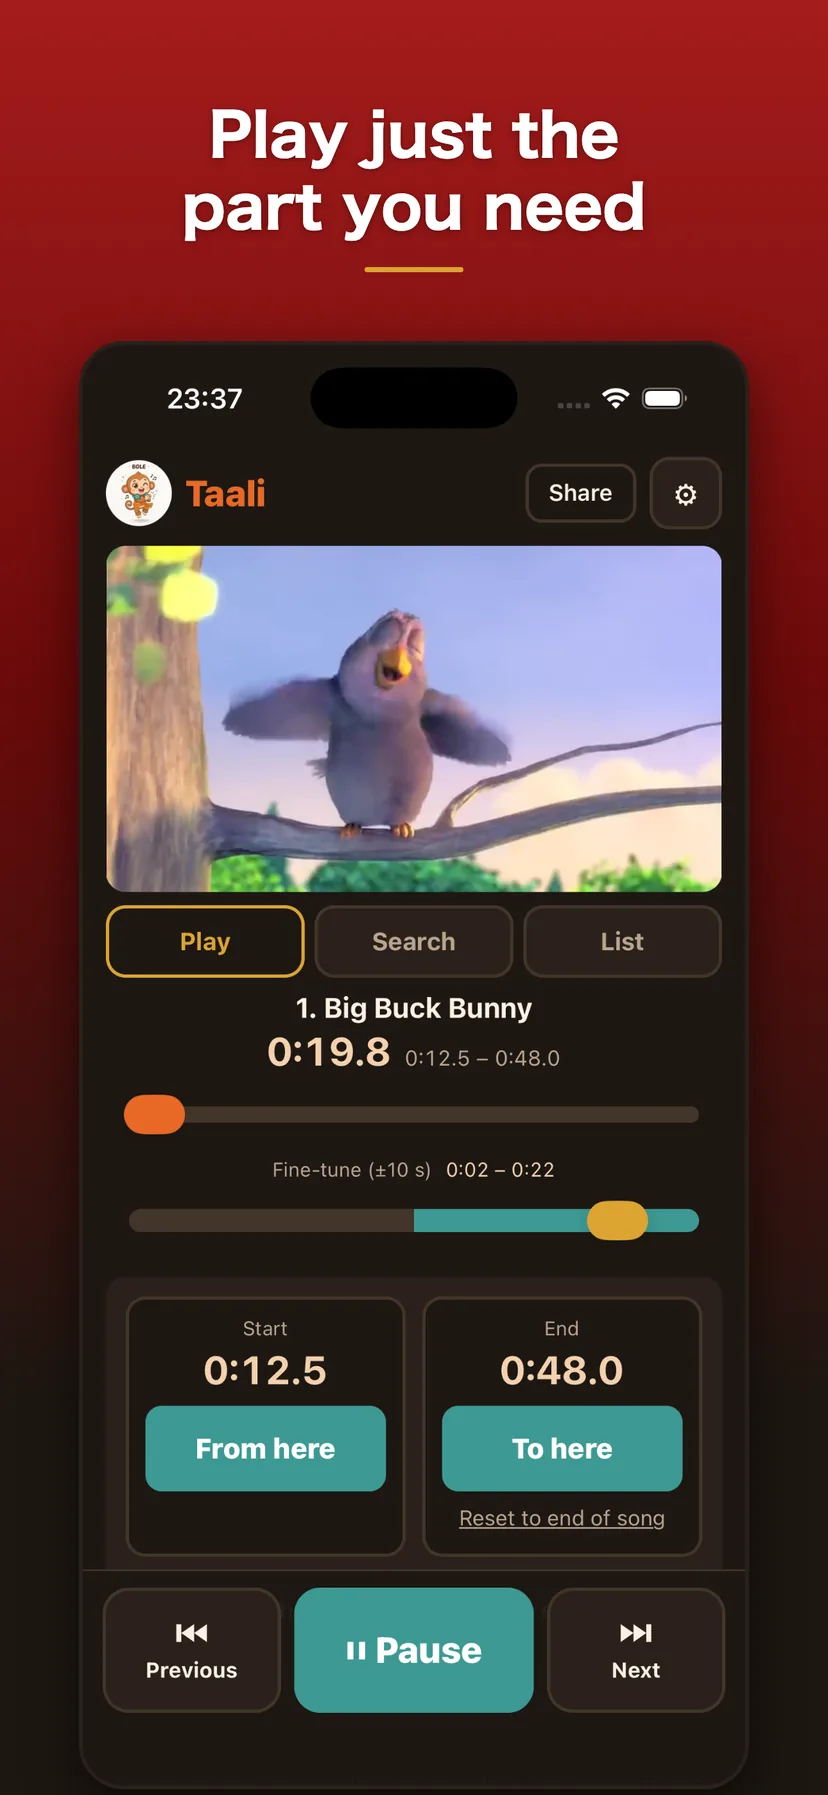
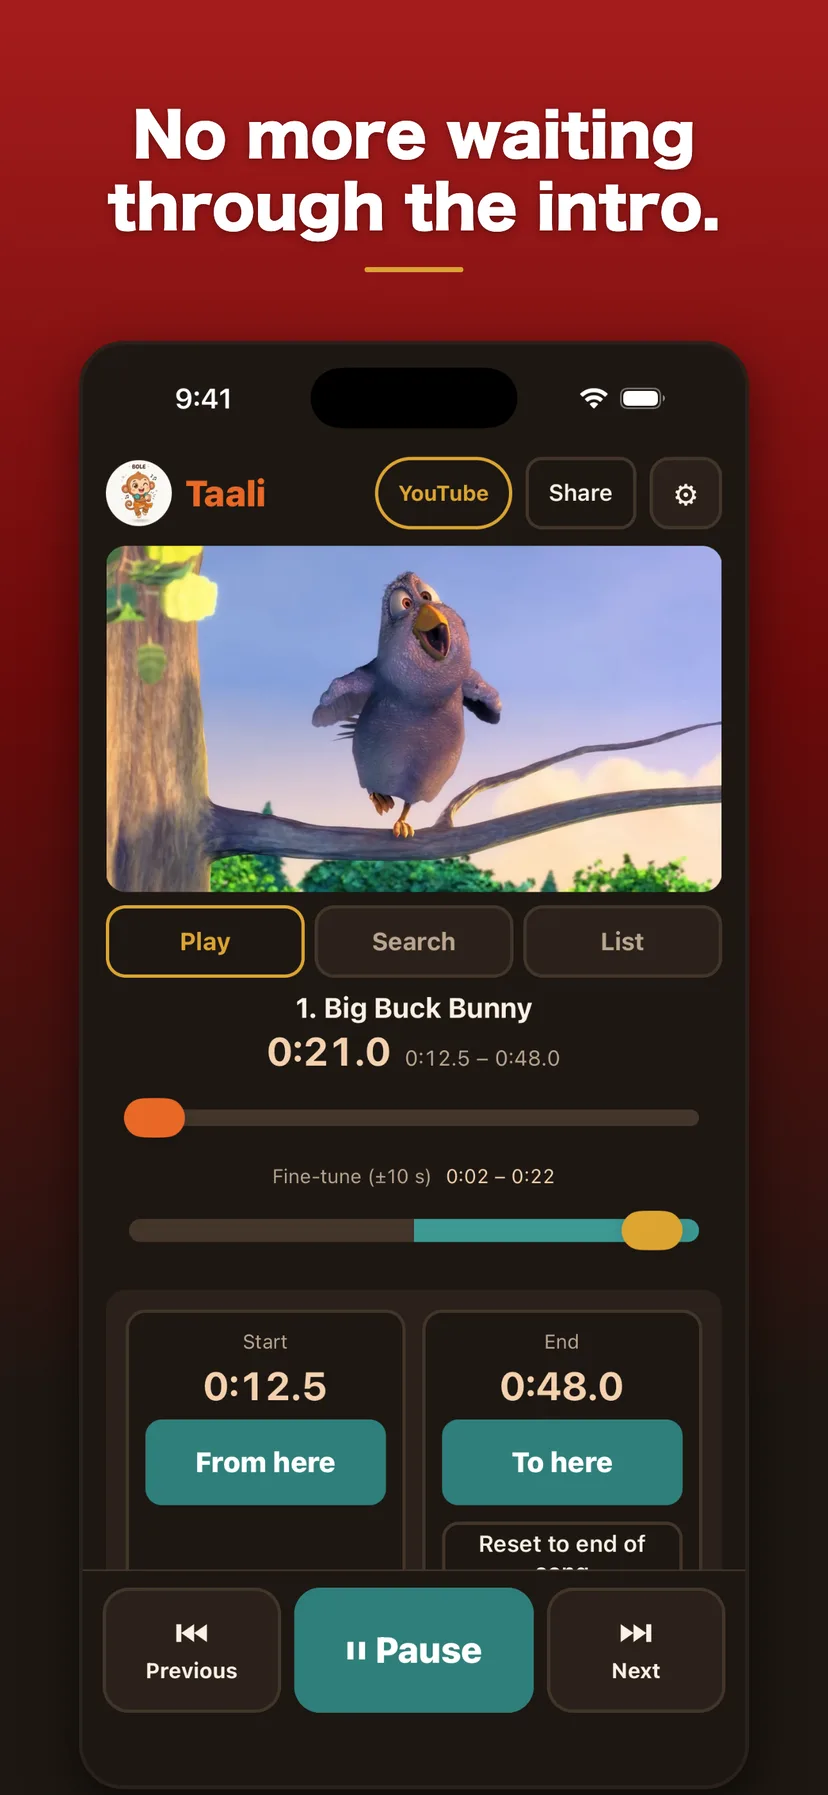
fix(taali): 画面写真を 1.1.1 の新しいものに替え、仮想メドレー・音程の言い方を直す
- ja/en の画面写真を Taali PR #131 の 4 枚に替える（vi は据え置き）
- 「仮想メドレー」→「メドレー」（ja/en/vi、一覧ページ含む）
- 実機で未確認の「音程を変えずに」を外す（紹介ページ・サポート）
- 機能の見出しが「機／能。」で折り返されないようにする

diff --git a/apps/taali/index.html b/apps/taali/index.html
@@ -6,7 +6,7 @@
   <title>Taali 曲の都合より、こっちの都合。 - Life Hack Tools</title>
   <meta name="description" content="流したい所だけ、流したい順に。曲ごとに始まりと終わりを決めて、ループ・メドレー再生。前へ／次へのかんたん操作、テンポ変更に対応。ダンス・歌・楽器の練習に。YouTubeの動画（公式プレイヤーでそのまま再生、ダウンロードしない）と、スマホの音声ファイル（ファイルモード）で使えます。">
   <meta property="og:title" content="Taali 曲の都合より、こっちの都合。 - Life Hack Tools">
-  <meta property="og:description" content="流したい所だけ、流したい順に。ループ、テンポ変更、仮想メドレー。YouTubeの動画と、スマホの音声ファイルで使えます。">
+  <meta property="og:description" content="流したい所だけ、流したい順に。ループ、テンポ変更、メドレー。YouTubeの動画と、スマホの音声ファイルで使えます。">
   <meta property="og:image" content="https://lh.tools/assets/ogp/taali.png">
   <meta property="og:image:width" content="1200">
   <meta property="og:image:height" content="630">
@@ -240,7 +240,7 @@
         <div class="step-num">3</div>
         <div class="step-body">
           <h3>すぐに再生</h3>
-          <p>再生を押すと、決めた位置からすぐ始まります。数曲をつなげた仮想メドレーや、ループ再生で通せます。</p>
+          <p>再生を押すと、決めた位置からすぐ始まります。数曲をつなげたメドレーや、ループ再生で通せます。</p>
         </div>
       </div>
     </div>
@@ -248,7 +248,7 @@
 
   <div class="section fade-in">
     <div class="section-title">Features</div>
-    <h2>練習の「困った」に効く機能。</h2>
+    <h2>練習の「困った」に<span style="display:inline-block">効く機能。</span></h2>
     <div class="features">
       <div class="feature-card">
         <span class="feature-icon"><svg xmlns="http://www.w3.org/2000/svg" viewBox="0 0 24 24" fill="none" stroke="currentColor" stroke-width="2" stroke-linecap="round" stroke-linejoin="round" aria-hidden="true"><path d="m3 17 2 2 4-4"/><path d="m3 7 2 2 4-4"/><path d="M13 6h8"/><path d="M13 12h8"/><path d="M13 18h8"/></svg></span>
@@ -257,7 +257,7 @@
       </div>
       <div class="feature-card">
         <span class="feature-icon"><svg xmlns="http://www.w3.org/2000/svg" viewBox="0 0 24 24" fill="none" stroke="currentColor" stroke-width="2" stroke-linecap="round" stroke-linejoin="round" aria-hidden="true"><path d="m17 2 4 4-4 4"/><path d="M3 11v-1a4 4 0 0 1 4-4h14"/><path d="m7 22-4-4 4-4"/><path d="M21 13v1a4 4 0 0 1-4 4H3"/></svg></span>
-        <h3>仮想メドレー</h3>
+        <h3>メドレー</h3>
         <p>数曲をつないで続けて再生。順番はかんたんに入れ替え、ループは1曲／全曲から選べます。</p>
       </div>
       <div class="feature-card">
@@ -273,7 +273,7 @@
       <div class="feature-card">
         <span class="feature-icon"><svg xmlns="http://www.w3.org/2000/svg" viewBox="0 0 24 24" fill="none" stroke="currentColor" stroke-width="2" stroke-linecap="round" stroke-linejoin="round" aria-hidden="true"><path d="m12 14 4-4"/><path d="M3.34 19a10 10 0 1 1 17.32 0"/></svg></span>
         <h3>テンポ変更</h3>
-        <p>0.75x〜1.0x。音程を変えずに、ゆっくり合わせたいときに。</p>
+        <p>0.75x〜1.0x。ゆっくり合わせたいときに。</p>
       </div>
       <div class="feature-card">
         <span class="feature-icon"><svg xmlns="http://www.w3.org/2000/svg" viewBox="0 0 24 24" fill="none" stroke="currentColor" stroke-width="2" stroke-linecap="round" stroke-linejoin="round" aria-hidden="true"><circle cx="18" cy="5" r="3"/><circle cx="6" cy="12" r="3"/><circle cx="18" cy="19" r="3"/><path d="m8.59 13.51 6.83 3.98"/><path d="m15.41 6.51-6.82 3.98"/></svg></span>
@@ -293,9 +293,10 @@
     <div class="section-title">Screenshots</div>
     <h2>こんな感じ。</h2>
     <div class="screenshot-scroll">
-      <img src="/assets/taali/screenshots/ja/01-hero.webp" alt="流したい所だけを、すぐ再生" loading="lazy">
-      <img src="/assets/taali/screenshots/ja/03-editor.webp" alt="区間を拡大バーで細かく調整" loading="lazy">
-      <img src="/assets/taali/screenshots/ja/04-list.webp" alt="仮想メドレーのリスト" loading="lazy">
+      <img src="/assets/taali/screenshots/ja/01-hero.webp" alt="前奏は、もう待たない。流す所の始まりと終わりを決める画面" loading="lazy">
+      <img src="/assets/taali/screenshots/ja/02-list.webp" alt="数曲をつないで、流したい順に。曲順のリスト" loading="lazy">
+      <img src="/assets/taali/screenshots/ja/03-file.webp" alt="スマホの音声ファイルでも使える" loading="lazy">
+      <img src="/assets/taali/screenshots/ja/04-filelist.webp" alt="音声ファイルも、流したい順に。" loading="lazy">
     </div>
   </div>
 

diff --git a/en/apps/taali/index.html b/en/apps/taali/index.html
@@ -6,7 +6,7 @@
   <title>Taali: Your timing, not the song's. - Life Hack Tools</title>
   <meta name="description" content="Play just the parts you want, in the order you want. Set a start and end for each song, then loop it or play a medley, with simple previous/next controls and tempo control. For dance, singing or instrument practice. Works with YouTube videos (played as-is in the official player, never downloaded) and with audio files on your phone (File mode).">
   <meta property="og:title" content="Taali: Your timing, not the song's. - Life Hack Tools">
-  <meta property="og:description" content="Play just the parts you want, in the order you want. Loop, tempo control and virtual medley, with YouTube videos and audio files on your phone.">
+  <meta property="og:description" content="Play just the parts you want, in the order you want. Loop, tempo control and medley, with YouTube videos and audio files on your phone.">
   <meta property="og:image" content="https://lh.tools/assets/ogp/taali.png">
   <meta property="og:image:width" content="1200">
   <meta property="og:image:height" content="630">
@@ -216,7 +216,7 @@
         <div class="step-num">3</div>
         <div class="step-body">
           <h3>Play right away</h3>
-          <p>Tap Play and it starts from your chosen point. Run a virtual medley of several songs, or loop.</p>
+          <p>Tap Play and it starts from your chosen point. Play a medley of several songs, or loop.</p>
         </div>
       </div>
     </div>
@@ -233,7 +233,7 @@
       </div>
       <div class="feature-card">
         <span class="feature-icon"><svg xmlns="http://www.w3.org/2000/svg" viewBox="0 0 24 24" fill="none" stroke="currentColor" stroke-width="2" stroke-linecap="round" stroke-linejoin="round" aria-hidden="true"><path d="m17 2 4 4-4 4"/><path d="M3 11v-1a4 4 0 0 1 4-4h14"/><path d="m7 22-4-4 4-4"/><path d="M21 13v1a4 4 0 0 1-4 4H3"/></svg></span>
-        <h3>Virtual medley</h3>
+        <h3>Medley</h3>
         <p>Play several songs back to back and reorder them easily. Loop one song or the whole list.</p>
       </div>
       <div class="feature-card">
@@ -249,7 +249,7 @@
       <div class="feature-card">
         <span class="feature-icon"><svg xmlns="http://www.w3.org/2000/svg" viewBox="0 0 24 24" fill="none" stroke="currentColor" stroke-width="2" stroke-linecap="round" stroke-linejoin="round" aria-hidden="true"><path d="m12 14 4-4"/><path d="M3.34 19a10 10 0 1 1 17.32 0"/></svg></span>
         <h3>Tempo control</h3>
-        <p>0.75x to 1.0x without changing pitch, for when you want to take it slower.</p>
+        <p>0.75x to 1.0x, for when you want to take it slower.</p>
       </div>
       <div class="feature-card">
         <span class="feature-icon"><svg xmlns="http://www.w3.org/2000/svg" viewBox="0 0 24 24" fill="none" stroke="currentColor" stroke-width="2" stroke-linecap="round" stroke-linejoin="round" aria-hidden="true"><circle cx="18" cy="5" r="3"/><circle cx="6" cy="12" r="3"/><circle cx="18" cy="19" r="3"/><path d="m8.59 13.51 6.83 3.98"/><path d="m15.41 6.51-6.82 3.98"/></svg></span>
@@ -269,9 +269,10 @@
     <div class="section-title">Screenshots</div>
     <h2>Take a look.</h2>
     <div class="screenshot-scroll">
-      <img src="/assets/taali/screenshots/en/01-hero.webp" alt="Play just the part you want, right away" loading="lazy">
-      <img src="/assets/taali/screenshots/en/03-editor.webp" alt="Fine-tune a section with the zoomed bar" loading="lazy">
-      <img src="/assets/taali/screenshots/en/04-list.webp" alt="Virtual medley list" loading="lazy">
+      <img src="/assets/taali/screenshots/en/01-hero.webp" alt="No more waiting through the intro. Set where each song starts and ends" loading="lazy">
+      <img src="/assets/taali/screenshots/en/02-list.webp" alt="Join songs and play them in your order" loading="lazy">
+      <img src="/assets/taali/screenshots/en/03-file.webp" alt="Works with audio files on your phone" loading="lazy">
+      <img src="/assets/taali/screenshots/en/04-filelist.webp" alt="Audio files, in the order you want" loading="lazy">
     </div>
   </div>
 

diff --git a/vi/apps/taali/index.html b/vi/apps/taali/index.html
@@ -6,7 +6,7 @@
   <title>Taali: Theo ý bạn, chứ không theo bài hát. - Life Hack Tools</title>
   <meta name="description" content="Chỉ phát đoạn bạn muốn, theo thứ tự bạn muốn. Đặt điểm bắt đầu và kết thúc cho từng bài, rồi phát lặp hoặc phát medley, có nút bài trước/bài sau tiện lợi và đổi tốc độ. Dùng để tập nhảy, hát hay chơi nhạc cụ. Dùng được với video YouTube (phát nguyên bằng trình phát chính thức, không tải xuống) và tệp âm thanh trên điện thoại (chế độ tệp).">
   <meta property="og:title" content="Taali: Theo ý bạn, chứ không theo bài hát. - Life Hack Tools">
-  <meta property="og:description" content="Chỉ phát đoạn bạn muốn, theo thứ tự bạn muốn. Lặp, đổi tốc độ và medley ảo, với video YouTube và tệp âm thanh trên điện thoại.">
+  <meta property="og:description" content="Chỉ phát đoạn bạn muốn, theo thứ tự bạn muốn. Lặp, đổi tốc độ và medley, với video YouTube và tệp âm thanh trên điện thoại.">
   <meta property="og:image" content="https://lh.tools/assets/ogp/taali.png">
   <meta property="og:image:width" content="1200">
   <meta property="og:image:height" content="630">
@@ -216,7 +216,7 @@
         <div class="step-num">3</div>
         <div class="step-body">
           <h3>Phát ngay</h3>
-          <p>Nhấn Phát là bắt đầu ngay từ vị trí đã chọn. Có thể phát medley ảo nhiều bài hoặc lặp lại.</p>
+          <p>Nhấn Phát là bắt đầu ngay từ vị trí đã chọn. Có thể phát medley nhiều bài hoặc lặp lại.</p>
         </div>
       </div>
     </div>
@@ -233,7 +233,7 @@
       </div>
       <div class="feature-card">
         <span class="feature-icon"><svg xmlns="http://www.w3.org/2000/svg" viewBox="0 0 24 24" fill="none" stroke="currentColor" stroke-width="2" stroke-linecap="round" stroke-linejoin="round" aria-hidden="true"><path d="m17 2 4 4-4 4"/><path d="M3 11v-1a4 4 0 0 1 4-4h14"/><path d="m7 22-4-4 4-4"/><path d="M21 13v1a4 4 0 0 1-4 4H3"/></svg></span>
-        <h3>Medley ảo</h3>
+        <h3>Medley</h3>
         <p>Phát liền nhiều bài và dễ dàng đổi thứ tự. Lặp một bài hoặc cả danh sách.</p>
       </div>
       <div class="feature-card">
@@ -249,7 +249,7 @@
       <div class="feature-card">
         <span class="feature-icon"><svg xmlns="http://www.w3.org/2000/svg" viewBox="0 0 24 24" fill="none" stroke="currentColor" stroke-width="2" stroke-linecap="round" stroke-linejoin="round" aria-hidden="true"><path d="m12 14 4-4"/><path d="M3.34 19a10 10 0 1 1 17.32 0"/></svg></span>
         <h3>Đổi tốc độ</h3>
-        <p>0.75x đến 1.0x mà không đổi cao độ, khi bạn muốn tập chậm lại.</p>
+        <p>0.75x đến 1.0x, khi bạn muốn tập chậm lại.</p>
       </div>
       <div class="feature-card">
         <span class="feature-icon"><svg xmlns="http://www.w3.org/2000/svg" viewBox="0 0 24 24" fill="none" stroke="currentColor" stroke-width="2" stroke-linecap="round" stroke-linejoin="round" aria-hidden="true"><circle cx="18" cy="5" r="3"/><circle cx="6" cy="12" r="3"/><circle cx="18" cy="19" r="3"/><path d="m8.59 13.51 6.83 3.98"/><path d="m15.41 6.51-6.82 3.98"/></svg></span>
@@ -271,7 +271,7 @@
     <div class="screenshot-scroll">
       <img src="/assets/taali/screenshots/vi/01-hero.webp" alt="Chỉ phát ngay đoạn bạn muốn" loading="lazy">
       <img src="/assets/taali/screenshots/vi/03-editor.webp" alt="Tinh chỉnh đoạn bằng thanh phóng to" loading="lazy">
-      <img src="/assets/taali/screenshots/vi/04-list.webp" alt="Danh sách medley ảo" loading="lazy">
+      <img src="/assets/taali/screenshots/vi/04-list.webp" alt="Danh sách medley" loading="lazy">
     </div>
   </div>
 

diff --git a/apps/index.html b/apps/index.html
@@ -159,7 +159,7 @@
       <a href="/apps/taali" class="app-card" data-accent="orange">
         <img src="/assets/icon-taali.png" alt="Taali">
         <h2>Taali</h2>
-        <p>曲の都合より、こっちの都合。Taali は、流したい所だけを、流したい順に再生できるプレイヤー。ダンス・歌・楽器の練習に。YouTubeの動画とスマホの音声ファイルで、ループ、数曲をつないだ仮想メドレー、0.75〜1.0 倍のテンポ変更、セットリストの共有に対応しています。</p>
+        <p>曲の都合より、こっちの都合。Taali は、流したい所だけを、流したい順に再生できるプレイヤー。ダンス・歌・楽器の練習に。YouTubeの動画とスマホの音声ファイルで、ループ、数曲をつないだメドレー、0.75〜1.0 倍のテンポ変更、セットリストの共有に対応しています。</p>
       </a>
       <a href="/apps/zobo" class="app-card" data-accent="blue">
         <img src="/assets/icon-zobo.png" alt="Zobo">

diff --git a/vi/apps/index.html b/vi/apps/index.html
@@ -159,7 +159,7 @@
       <a href="/vi/apps/taali" class="app-card" data-accent="orange">
         <img src="/assets/icon-taali.png" alt="Taali">
         <h2>Taali</h2>
-        <p>Theo ý bạn, chứ không theo bài hát. Taali chỉ phát đoạn bạn muốn, theo thứ tự bạn muốn, để tập nhảy, hát hay chơi nhạc cụ. Với video YouTube và tệp âm thanh trên điện thoại, bạn có thể phát lặp, nối nhiều bài thành medley ảo, đổi tốc độ 0.75x–1.0x và chia sẻ danh sách bài.</p>
+        <p>Theo ý bạn, chứ không theo bài hát. Taali chỉ phát đoạn bạn muốn, theo thứ tự bạn muốn, để tập nhảy, hát hay chơi nhạc cụ. Với video YouTube và tệp âm thanh trên điện thoại, bạn có thể phát lặp, nối nhiều bài thành medley, đổi tốc độ 0.75x–1.0x và chia sẻ danh sách bài.</p>
       </a>
       <a href="/vi/apps/zobo" class="app-card" data-accent="blue">
         <img src="/assets/icon-zobo.png" alt="Zobo">

diff --git a/en/apps/index.html b/en/apps/index.html
@@ -159,7 +159,7 @@
       <a href="/en/apps/taali" class="app-card" data-accent="orange">
         <img src="/assets/icon-taali.png" alt="Taali">
         <h2>Taali</h2>
-        <p>Your timing, not the song's. Taali plays just the parts you want, in the order you want, for dance, singing or instrument practice. With YouTube videos and audio files on your phone, loop a part, chain several songs into a virtual medley, slow the tempo to 0.75–1.0x, and share your setlist.</p>
+        <p>Your timing, not the song's. Taali plays just the parts you want, in the order you want, for dance, singing or instrument practice. With YouTube videos and audio files on your phone, loop a part, chain several songs into a medley, slow the tempo to 0.75–1.0x, and share your setlist.</p>
       </a>
       <a href="/en/apps/zobo" class="app-card" data-accent="blue">
         <img src="/assets/icon-zobo.png" alt="Zobo">

diff --git a/support/taali/index.html b/support/taali/index.html
@@ -109,7 +109,7 @@
 
     <div class="policy-section fade-in">
       <h2><span class="num">09</span>ループとテンポの使い方</h2>
-      <p>ループは、1曲だけ、または全曲をくり返すように選べます。テンポは0.75x〜1.0xの範囲で、音程を変えずに遅くできます。振り入れの練習にお使いください。</p>
+      <p>ループは、1曲だけ、または全曲をくり返すように選べます。テンポは0.75x〜1.0xの範囲で遅くできます。新しい曲を覚えるときにお使いください。</p>
     </div>
 
     <div class="policy-section fade-in">

diff --git a/vi/support/taali/index.html b/vi/support/taali/index.html
@@ -109,7 +109,7 @@
 
     <div class="policy-section fade-in">
       <h2><span class="num">09</span>Cách dùng lặp và tốc độ</h2>
-      <p>Lặp có thể lặp một bài hoặc cả danh sách. Tốc độ từ 0.75x đến 1.0x, làm chậm bài mà không đổi cao độ, rất hợp để học bài nhảy mới.</p>
+      <p>Lặp có thể lặp một bài hoặc cả danh sách. Tốc độ từ 0.75x đến 1.0x, giúp bạn tập chậm khi học bài mới.</p>
     </div>
 
     <div class="policy-section fade-in">

diff --git a/en/support/taali/index.html b/en/support/taali/index.html
@@ -109,7 +109,7 @@
 
     <div class="policy-section fade-in">
       <h2><span class="num">09</span>How to use loop and tempo</h2>
-      <p>Loop can repeat one song or the whole list. Tempo goes from 0.75x to 1.0x and slows the song without changing its pitch, which is ideal for learning choreography.</p>
+      <p>Loop can repeat one song or the whole list. Tempo goes from 0.75x to 1.0x, which helps when learning something new.</p>
     </div>
 
     <div class="policy-section fade-in">
